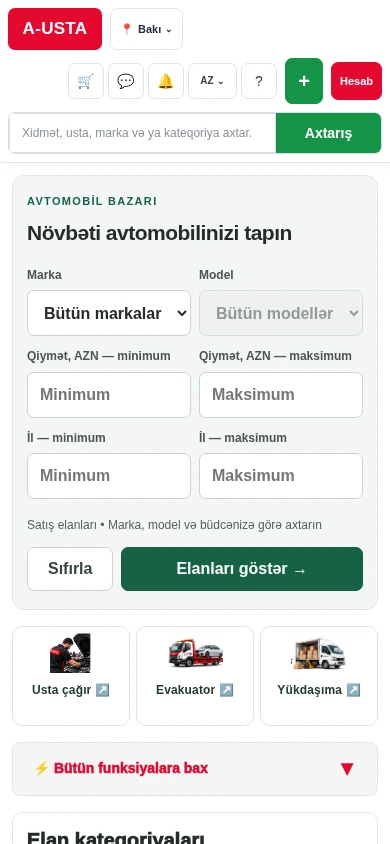
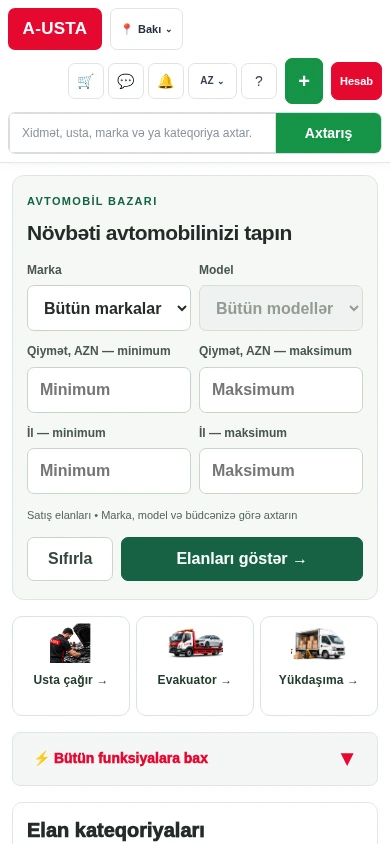
Polish V3.4.1 mobile promotion, footer and information pages

diff --git a/assets/homepage/homepage.css b/assets/homepage/homepage.css
@@ -30,3 +30,34 @@
 #home #austaV107ListingCategories .austa-v107-category-name{min-height:28px!important}
 @media(max-width:650px){#home #austaV107ListingCategories .austa-v107-category{padding:60px 4px 4px!important;background-size:100% 60px!important}#home #austaTopUrgentV24 > button::after{left:4px!important;right:4px!important;top:55px!important}}
 #austaProfessionalFooter .v34-footer-intro a,#austaProfessionalFooter .v34-footer-intro a:hover{color:#176244!important}
+/* V3.4.1 owner visual polish: original device/availability artwork, no store-logo imitation. */
+#austaMobilePromotion{background:radial-gradient(ellipse at 63% 55%,#dcebe2 0,transparent 42%),linear-gradient(115deg,#f5f7f5,#eef3f0);margin-top:30px}
+#austaMobilePromotion .v34-mobile-inner{grid-template-columns:minmax(0,1.18fr) minmax(260px,.8fr) minmax(200px,.6fr);min-height:650px;gap:30px;padding:48px 28px;align-items:center}
+#austaMobilePromotion .v34-mobile-copy{padding:0;min-width:0}#austaMobilePromotion .v34-kicker{display:flex;align-items:center;gap:8px;font-size:10px!important;letter-spacing:.1em}.v341-live-dot{width:7px;height:7px;background:#176244;border-radius:50%;box-shadow:0 0 0 4px #17624412;flex:none}
+#austaMobilePromotion .v34-mobile-copy h2{font-size:clamp(31px,2.6vw,40px);line-height:1.14;letter-spacing:-1.2px;max-width:560px;margin:20px 0}#austaMobilePromotion .v34-mobile-copy>p{font-size:16px;line-height:1.65;max-width:445px}
+.v341-web-action{display:inline-flex;justify-content:space-between;gap:35px;align-items:center;background:#176244;color:#fff!important;font-size:15px;font-weight:650;min-height:48px;padding:12px 20px;border-radius:8px;margin-top:9px;box-shadow:0 5px 15px #17624415}.v341-web-action:hover{background:#104e35}.v341-web-action span{font-size:21px}
+#austaMobilePromotion .v341-store-heading{font-size:11px!important;text-transform:uppercase;letter-spacing:.07em;font-weight:650;color:#52645a;margin:30px 0 12px}.v34-stores{flex-wrap:nowrap;gap:8px;margin-top:0}
+#austaMobilePromotion .v34-store{flex:1;min-width:0;max-width:180px;min-height:98px;padding:14px 10px;border:1px solid #d4dfd8;border-radius:10px;box-shadow:0 2px 2px #17302203;background:#ffffffd9;display:flex;flex-direction:row;gap:9px;align-items:flex-start;justify-content:flex-start;position:relative}
+.v341-store-device{flex:0 0 30px;width:30px;height:36px;display:grid;place-items:center;background:#e6f0e9;border-radius:7px;color:#176244}.v341-store-upcoming:nth-child(2) .v341-store-device{background:#edf0ee;color:#3a4e43}.v341-store-upcoming:nth-child(3) .v341-store-device{background:#faeeed;color:#b32b23}.v341-store-copy{display:flex;flex-direction:column;min-width:0}#austaMobilePromotion .v341-store-copy>span{font-size:13px;font-weight:700;line-height:1.3;white-space:nowrap}#austaMobilePromotion .v341-store-platform{font-size:9px;margin:0 0 4px;color:#596b60;white-space:nowrap}#austaMobilePromotion .v341-store-state{font-size:10px;margin-top:8px;font-weight:500;color:#657369}#austaMobilePromotion .v34-upcoming{font-size:11px!important;line-height:1.55;margin-top:12px;color:#5b6d60;max-width:430px}
+#austaMobilePromotion .v34-phone{position:relative;width:282px;height:auto;align-self:center;margin:0 auto;padding:9px;transform:rotate(-5deg);border:1px solid #6c7970;border-radius:43px;background:linear-gradient(110deg,#a0aaa3,#252d28 8%,#79837c 13%,#151c17 21%,#444f47 77%,#111a14 93%,#8b968e);box-shadow:0 28px 48px #17302338,0 3px 5px #17302325,inset 0 0 0 2px #acb5ae;overflow:visible}
+#austaMobilePromotion .v34-phone::after{content:'';position:absolute;right:-3px;top:140px;width:3px;height:45px;border-radius:0 2px 2px 0;background:#38483d}#austaMobilePromotion .v34-phone::before{content:'';position:absolute;left:-3px;top:100px;width:3px;height:60px;border-radius:2px 0 0 2px;background:#4b5d50}
+#austaMobilePromotion .v34-phone-screen{height:auto;overflow:hidden;border-radius:34px;background:#fff;border:2px solid #0b110d;position:relative}.v341-phone-status{height:25px;padding:6px 14px 0;display:flex;justify-content:space-between;font-size:9px;font-weight:700;color:#1e2a22;background:#fff;line-height:12px}
+#austaMobilePromotion .v34-phone-screen img{display:block;width:100%;height:auto;aspect-ratio:390/844}#austaMobilePromotion .v34-phone-camera{height:12px;width:62px;top:18px;left:calc(50% - 31px);border-radius:12px;background:#111913}
+#austaMobilePromotion .v34-qr{padding:0;display:block;text-align:center;min-width:0}#austaMobilePromotion .v34-qr>a:first-child{padding:8px;border-radius:16px;border:1px solid #d6e1d9;box-shadow:0 8px 24px #244d3410;background:#fff;display:inline-block;line-height:0}
+#austaMobilePromotion .v34-qr img{width:192px;height:192px;image-rendering:pixelated}.v341-scan-label{display:block;font-size:9px;color:#61766a;letter-spacing:.09em;font-weight:650;margin:22px 0 10px}#austaMobilePromotion .v34-qr h3{font-size:23px;line-height:1.25;letter-spacing:-.4px;margin:0 0 12px}#austaMobilePromotion .v34-qr p{font-size:13px;line-height:1.6;margin:0 0 13px}.v34-mobile-link{font-size:13px}
+#austaProfessionalFooter{padding-top:35px!important;background:#fafbfa!important}#austaProfessionalFooter .v34-footer-intro{padding-bottom:24px;margin-bottom:28px}.v34-footer-intro p{letter-spacing:-.15px}.v34-footer-nav{gap:28px}.v34-footer-group h2{font-size:13px!important;letter-spacing:.01em;margin-bottom:12px}#austaProfessionalFooter .v34-footer-group a{font-size:13px!important;line-height:1.4!important;padding:9px 0;min-height:36px;color:#4d6053!important;transition:color .15s}#austaProfessionalFooter .v34-footer-group a:hover{color:#176244!important;text-decoration:underline;text-underline-offset:4px}
+#austaProfessionalFooter #austaV169DBrandCatalog{margin:28px 0 0!important;width:100%!important;max-width:none!important;background:#fafbfa;padding:25px 0 0!important;border:0!important;border-top:1px solid #dfe6e1!important;border-radius:0}
+.v341-directory-head{display:flex;justify-content:space-between;align-items:center;gap:24px;margin-bottom:18px}.v341-directory-head h2{margin-bottom:5px!important;font-size:19px!important}.v341-directory-caption{font-size:12px!important;color:#64766a!important;margin:0!important}.v34-brand-search{font-size:12px;white-space:nowrap}.v34-brand-search input{width:230px;max-width:100%;height:42px;background:#fff;border-color:#cfd9d2}
+#austaV169DBrandCatalog .austa-v169d-grid{gap:0 24px!important;margin:16px 0 0!important}#austaV169DBrandCatalog .austa-v169d-brand{font-size:12px!important;min-height:32px;padding:5px 3px;line-height:1.45;transition:background .15s;border-radius:4px;color:#4c5f52}#austaV169DBrandCatalog .austa-v169d-brand b{font-size:11px;color:#6c7d70}#austaV169DBrandCatalog .austa-v169d-brand:hover{background:#eaf1ec;color:#176244}.v34-footer-bottom{margin-top:24px;padding:18px 0}.v34-footer-bottom p{font-size:11px!important}
+#home .v34-search{padding:22px 24px;border-color:#dfe6e1;background:#f5f7f5}.v34-search-heading{margin-bottom:18px}.v34-search-actions{margin-top:14px}.v34-search-heading h1{font-weight:700}#home #austaTopUrgentV24 button{transition:border-color .15s,box-shadow .15s}#home #austaTopUrgentV24 button:hover{border-color:#9db8a8!important;box-shadow:0 4px 12px #1762440c!important}
+/* Text arrows avoid platform emoji glyphs in the new presentation. */
+#home #austaTopUrgentV24 button::after{content:'Evakuator  →\A Yol yardımı və daşıma'!important}#home #austaTopUrgentV24 #v34MechanicEntry::after{content:'Usta çağır  →\A Xidmət növünü seçin'!important}#home #austaTopUrgentV24 [data-v31-cargo]::after{content:'Yükdaşıma  →\A Daşıma sifarişi yaradın'!important}
+@media(max-width:1399px) and (min-width:1101px){#austaMobilePromotion .v34-mobile-inner{gap:20px;grid-template-columns:minmax(0,1.2fr) 270px 205px}#austaMobilePromotion .v34-phone{width:265px}#austaMobilePromotion .v34-mobile-copy h2{font-size:35px}.v341-store-device{display:none}#austaV169DBrandCatalog .austa-v169d-grid{grid-template-columns:repeat(6,minmax(0,1fr))!important}}
+@media(max-width:1100px){#austaMobilePromotion .v34-mobile-inner{grid-template-columns:minmax(0,1.2fr) minmax(240px,.8fr);gap:24px 30px;padding:40px 28px;min-height:0}#austaMobilePromotion .v34-mobile-copy{grid-column:1;grid-row:1}#austaMobilePromotion .v34-mobile-copy h2{font-size:31px}#austaMobilePromotion .v34-phone{grid-column:2;grid-row:1 / 3;width:250px;margin:0 auto}#austaMobilePromotion .v34-qr{grid-column:1;grid-row:2;display:grid;grid-template-columns:146px 1fr;column-gap:20px;text-align:left;align-items:start}#austaMobilePromotion .v34-qr>a:first-child{grid-column:1;grid-row:1/5;padding:5px;border-radius:12px;justify-self:start}#austaMobilePromotion .v34-qr img{width:132px;height:132px}.v341-scan-label{grid-column:2;margin:3px 0 7px}#austaMobilePromotion .v34-qr h3{grid-column:2;font-size:20px;margin:0 0 8px}#austaMobilePromotion .v34-qr p{grid-column:2;font-size:12px;margin:0 0 5px}#austaMobilePromotion .v34-mobile-link{grid-column:2}.v341-store-device{display:none}.v34-stores{gap:6px}#austaMobilePromotion .v34-store{min-height:85px;padding:12px 8px}.v341-directory-head{align-items:flex-start}.v34-brand-search{display:block}.v34-brand-search input{display:block;margin-top:6px;width:210px}#austaV169DBrandCatalog .austa-v169d-grid{grid-template-columns:repeat(4,minmax(0,1fr))!important}}
+@media(max-width:650px){#austaMobilePromotion .v34-mobile-inner{grid-template-columns:minmax(0,1fr) 140px;gap:30px 14px;padding:30px 18px 32px}#austaMobilePromotion .v34-mobile-copy{grid-column:1/-1;grid-row:1}#austaMobilePromotion .v34-mobile-copy h2{font-size:29px;letter-spacing:-.9px;line-height:1.17;margin:17px 0}#austaMobilePromotion .v34-mobile-copy>p{font-size:14px;line-height:1.65;max-width:none}#austaMobilePromotion .v34-kicker{font-size:9px!important}.v341-web-action{min-height:46px;margin-top:5px}.v341-store-heading{margin-top:24px!important}#austaMobilePromotion .v34-store{min-height:112px;padding:12px 8px;display:flex;flex-direction:column;gap:8px;border-radius:9px}.v341-store-device{display:grid;width:27px;height:30px;flex:auto}.v341-store-device svg{width:17px;height:23px}#austaMobilePromotion .v341-store-copy>span{font-size:12px}#austaMobilePromotion .v341-store-platform{font-size:8px}#austaMobilePromotion .v341-store-state{font-size:9px;margin-top:7px}#austaMobilePromotion .v34-upcoming{font-size:11px!important}#austaMobilePromotion .v34-phone{grid-column:1;grid-row:2;width:min(100%,194px);transform:rotate(-3deg);padding:6px;margin:0 auto;border-radius:30px;align-self:center}#austaMobilePromotion .v34-phone-screen{border-radius:23px}.v341-phone-status{height:18px;padding:4px 9px 0;font-size:6px;line-height:8px}#austaMobilePromotion .v34-phone-camera{top:12px;width:43px;left:calc(50% - 21.5px);height:9px}#austaMobilePromotion .v34-phone::before{top:66px;height:38px}#austaMobilePromotion .v34-phone::after{top:100px;height:30px}#austaMobilePromotion .v34-qr{grid-column:2;grid-row:2;display:block;text-align:center;padding:0;align-self:center}#austaMobilePromotion .v34-qr img{width:126px;height:126px}#austaMobilePromotion .v34-qr>a:first-child{padding:5px;max-width:100%}.v341-scan-label{font-size:8px;margin:17px 0 8px}#austaMobilePromotion .v34-qr h3{font-size:18px}#austaMobilePromotion .v34-qr p{font-size:11px;line-height:1.6;margin-top:10px}#austaMobilePromotion .v34-mobile-link{font-size:12px}#austaProfessionalFooter{padding:26px 18px 0!important}.v34-footer-intro{gap:10px;margin-bottom:24px!important;padding-bottom:22px!important}.v34-footer-intro p{font-size:12px!important}.v34-footer-nav{gap:24px 15px}#austaProfessionalFooter .v34-footer-group a{font-size:12px!important;min-height:44px;padding:12px 0}#austaProfessionalFooter .v34-footer-group h2{font-size:13px!important}.v341-directory-head{display:block}.v34-brand-search{margin-top:16px}.v34-brand-search input{width:100%}#austaV169DBrandCatalog .austa-v169d-grid{grid-template-columns:repeat(2,minmax(0,1fr))!important;gap:0 14px!important}#austaV169DBrandCatalog .austa-v169d-brand{min-height:44px;font-size:12px!important}.v34-footer-bottom{margin-top:16px}#home .v34-search{padding:18px 14px}.v34-search-heading{margin-bottom:15px}.v34-search-actions p{font-size:11px}#home #austaTopUrgentV24 button::after{content:'Evakuator →'!important}#home #austaTopUrgentV24 #v34MechanicEntry::after{content:'Usta çağır →'!important}#home #austaTopUrgentV24 [data-v31-cargo]::after{content:'Yükdaşıma →'!important}}
+@media(prefers-reduced-motion:reduce){#home #austaTopUrgentV24 button,#austaProfessionalFooter a,#austaV169DBrandCatalog button{transition:none!important}}
+@media(min-width:1101px) and (max-width:1399px){#austaMobilePromotion .v34-mobile-inner{grid-template-columns:minmax(0,1.18fr) minmax(250px,.8fr) minmax(200px,.6fr);gap:24px}}
+@media(min-width:651px) and (max-width:1399px){.v341-store-device{display:grid;flex-basis:26px;width:26px;height:34px}.v341-store-device svg{width:20px;height:26px}}
+@media(max-width:650px){#austaMobilePromotion .v341-store-platform{font-size:9px}#austaMobilePromotion .v341-store-state{font-size:10px}}
+#austaProfessionalFooter .v34-footer-group h2{font-size:14px!important}#austaProfessionalFooter .v34-footer-group a{font-size:14px!important}#austaV169DBrandCatalog .austa-v169d-brand{font-size:13px!important}#austaV169DBrandCatalog .austa-v169d-brand b{font-size:12px}#austaMobilePromotion .v341-store-state{font-size:11px}
+@media(max-width:650px){#austaProfessionalFooter .v34-footer-group h2,#austaProfessionalFooter .v34-footer-group a,#austaV169DBrandCatalog .austa-v169d-brand{font-size:13px!important}#austaMobilePromotion .v341-store-state{font-size:10px}}

diff --git a/assets/homepage/homepage.js b/assets/homepage/homepage.js
@@ -9,7 +9,7 @@ function category(key){window.AUSTA_V151_MARKETPLACE?.openCategory(key);}
 function search(){
  const home=document.getElementById('home');if(!home||document.getElementById('austaHomeSearch'))return;
  const box=el('section','v34-search');box.id='austaHomeSearch';box.setAttribute('aria-labelledby','v34SearchTitle');
- box.innerHTML='<div class="v34-search-heading"><div><p class="v34-kicker">AVTOMOBİL BAZARI</p><h1 id="v34SearchTitle">Növbəti avtomobilinizi tapın</h1></div><a href="'+infoURL('services')+'">A-USTA xidmətləri ↗</a></div><form><div class="v34-search-grid"><label>Marka<select name="brand"><option value="">Bütün markalar</option></select></label><label>Model<select name="model" disabled><option value="">Bütün modellər</option></select></label><label>Qiymət, AZN — minimum<input type="number" name="price_min" min="0" step="any" placeholder="Minimum"></label><label>Qiymət, AZN — maksimum<input type="number" name="price_max" min="0" step="any" placeholder="Maksimum"></label><label>İl — minimum<input type="number" name="year_min" min="0" step="1" placeholder="Minimum"></label><label>İl — maksimum<input type="number" name="year_max" min="0" step="1" placeholder="Maksimum"></label></div><div class="v34-search-actions"><p>Satış elanları • Marka, model və büdcənizə görə axtarın</p><button type="reset">Sıfırla</button><button type="submit">Elanları göstər →</button></div><p class="v34-search-error" role="alert" hidden></p></form>';
+ box.innerHTML='<div class="v34-search-heading"><div><p class="v34-kicker">AVTOMOBİL BAZARI</p><h1 id="v34SearchTitle">Növbəti avtomobilinizi tapın</h1></div><a href="'+infoURL('services')+'">A-USTA xidmətləri →</a></div><form><div class="v34-search-grid"><label>Marka<select name="brand"><option value="">Bütün markalar</option></select></label><label>Model<select name="model" disabled><option value="">Bütün modellər</option></select></label><label>Qiymət, AZN — minimum<input type="number" name="price_min" min="0" step="any" placeholder="Minimum"></label><label>Qiymət, AZN — maksimum<input type="number" name="price_max" min="0" step="any" placeholder="Maksimum"></label><label>İl — minimum<input type="number" name="year_min" min="0" step="1" placeholder="Minimum"></label><label>İl — maksimum<input type="number" name="year_max" min="0" step="1" placeholder="Maksimum"></label></div><div class="v34-search-actions"><p>Satış elanları • Marka, model və büdcənizə görə axtarın</p><button type="reset">Sıfırla</button><button type="submit">Elanları göstər →</button></div><p class="v34-search-error" role="alert" hidden></p></form>';
  const form=box.querySelector('form'),brand=form.elements.brand,model=form.elements.model;
  for(const name of window.AUSTA_VEHICLE_CATALOG?.brands||[]){const option=el('option','',name);option.value=name;brand.append(option);}
  function models(){model.replaceChildren(new Option('Bütün modellər',''));model.disabled=!brand.value;for(const name of window.AUSTA_VEHICLE_CATALOG?.models[brand.value]||[])model.add(new Option(name,name));}
@@ -25,19 +25,19 @@ function service(){
 }
 function promotion(footer){
  const config=window.AUSTA_MOBILE_LINKS,section=el('section','v34-mobile');section.id='austaMobilePromotion';section.setAttribute('aria-labelledby','v34MobileTitle');
- section.innerHTML='<div class="v34-mobile-inner"><div class="v34-mobile-copy"><p class="v34-kicker">A-USTA HƏR ZAMAN YANINIZDA</p><h2 id="v34MobileTitle">A-USTA — Bütün avtomobil xidmətləri bir platformada</h2><p>Elanlar, avtomobilləriniz və servis tarixçəniz.<br>Mobil brauzerinizdən rahat istifadə edin.</p><div class="v34-stores" aria-label="Gələcək mobil tətbiqlər"></div><p class="v34-upcoming">Mobil tətbiqlər hələ yayımlanmayıb. Hazırda mobil saytdan istifadə edə bilərsiniz.</p></div><div class="v34-phone" role="img" aria-label="A-USTA mobil saytının real ana səhifəsi"><div class="v34-phone-screen"><img src="'+asset('mobile-preview.webp')+'" width="390" height="844" alt="A-USTA mobil saytı: axtarış, xidmətlər və kateqoriyalar" loading="lazy"></div><span class="v34-phone-camera" aria-hidden="true"></span></div><div class="v34-qr"><a href="'+config.website+'"><img src="'+asset('website-qr.png')+'" width="208" height="208" alt="A-USTA saytını açan QR kod" loading="lazy"></a><h3>Telefonunuzda açın</h3><p>Kameranı QR koda yönəldin.<br>Tətbiq yükləmək lazım deyil.</p><a class="v34-mobile-link" href="'+config.website+'">Mobil saytı aç ↗</a></div></div>';
- const stores=section.querySelector('.v34-stores');for(const item of config.stores){let safe=false;try{const url=new URL(item.url);safe=url.protocol==='https:'&&url.hostname===item.host&&!!url.pathname.slice(1);}catch{}const ready=item.published===true&&item.artworkApproved===true&&safe&&/^assets\/homepage\/[a-z0-9-]+\.(svg|png)$/.test(item.badge);const badge=el(ready?'a':'div','v34-store');if(ready){badge.href=item.url;const image=el('img');image.src=new URL('../../'+item.badge,script.src).href;image.alt=item.name;badge.append(image);}else{badge.append(el('span','',item.name),el('small','','Planlaşdırılır'));}stores.append(badge);}
+ section.innerHTML='<div class="v34-mobile-inner"><div class="v34-mobile-copy"><p class="v34-kicker"><span class="v341-live-dot" aria-hidden="true"></span> MOBİL SAYT · İNDİ ƏLÇATANDIR</p><h2 id="v34MobileTitle">A-USTA — Bütün avtomobil xidmətləri bir platformada</h2><p>Avtomobil dünyası cibinizdə. Elanlara baxın, avtomobillərinizi və servis tarixçənizi telefonunuzdan idarə edin.</p><a class="v341-web-action" href="'+config.website+'">Mobil saytı aç <span aria-hidden="true">→</span></a><p class="v341-store-heading">Mobil tətbiqlər · Növbəti mərhələ</p><div class="v34-stores" aria-label="Gələcək mobil tətbiqlər"></div><p class="v34-upcoming">Mobil tətbiqlər hələ yayımlanmayıb. Hazırda mobil saytdan istifadə edə bilərsiniz.</p></div><div class="v34-phone" role="img" aria-label="A-USTA mobil saytının real ana səhifəsi"><div class="v34-phone-screen"><div class="v341-phone-status" aria-hidden="true"><span>9:41</span><span>● ▰</span></div><img src="'+asset('mobile-preview.webp')+'" width="390" height="844" alt="A-USTA mobil saytı: axtarış, xidmətlər və kateqoriyalar" loading="lazy"></div><span class="v34-phone-camera" aria-hidden="true"></span></div><div class="v34-qr"><a href="'+config.website+'"><img src="'+asset('website-qr.png')+'" width="208" height="208" alt="A-USTA saytını açan QR kod" loading="lazy"></a><span class="v341-scan-label">YÜKLƏMƏSİZ İSTİFADƏ</span><h3>Skan edin.<br>Yola davam edin.</h3><p>Kameranı QR koda yönəldin.<br>Tətbiq yükləmək lazım deyil.</p><a class="v34-mobile-link" href="'+config.website+'">Mobil saytı aç →</a></div></div>';
+ const stores=section.querySelector('.v34-stores');for(const item of config.stores){let safe=false;try{const url=new URL(item.url);safe=url.protocol==='https:'&&url.hostname===item.host&&!!url.pathname.slice(1);}catch{}const ready=item.published===true&&item.artworkApproved===true&&safe&&/^assets\/homepage\/[a-z0-9-]+\.(svg|png)$/.test(item.badge);const badge=el(ready?'a':'div','v34-store');if(ready){badge.href=item.url;const image=el('img');image.src=new URL('../../'+item.badge,script.src).href;image.alt=item.name;badge.append(image);}else{badge.classList.add('v341-store-upcoming');const icon=el('span','v341-store-device');icon.setAttribute('aria-hidden','true');icon.innerHTML='<svg width="22" height="28" viewBox="0 0 22 28" fill="none"><rect x="3" y="1" width="16" height="26" rx="4" stroke="currentColor" stroke-width="1.5"/><path d="M8 4h6M9 24h4" stroke="currentColor" stroke-width="1.5" stroke-linecap="round"/></svg>';const copy=el('span','v341-store-copy');copy.append(el('small','v341-store-platform',item.platform||'Mobil tətbiq'),el('span','',item.name),el('small','v341-store-state','Planlaşdırılır'));badge.append(icon,copy);}stores.append(badge);}
  footer.before(section);
 }
 function footer(){
  const root=document.querySelector('footer.footer');if(!root)return;root.id='austaProfessionalFooter';
  const groups=[['A-USTA',[['Haqqımızda','about'],['Əlaqə','contact'],['Xidmətlərimiz','services'],['Reklam yerləşdirmə','advertising']]],['Hüquqi məlumatlar',[['İstifadəçi razılaşması','agreement'],['Məxfilik siyasəti','privacy'],['Qaydalar','rules'],['Elan yerləşdirmə qaydaları','listing-rules']]],['Dəstək',[['Yardım mərkəzi','help'],['Tez-tez verilən suallar','faq'],['Texniki dəstək','technical-support'],['Şikayət və müraciətlər','complaints']]],['Kataloq',[['Avtomobil markaları','brands'],['Avtomobil kateqoriyaları','categories'],['Ehtiyat hissələri','parts'],['Avtoservislər','service']]]];
- root.replaceChildren();const inner=el('div','v34-footer-inner'),intro=el('div','v34-footer-intro');intro.append(el('strong','v34-footer-wordmark','A-USTA'),el('p','','Avtomobil dünyası. Bir ünvanda.'),link('Platformanı tanıyın ↗','about'));inner.append(intro);
+ root.replaceChildren();const inner=el('div','v34-footer-inner'),intro=el('div','v34-footer-intro');intro.append(el('strong','v34-footer-wordmark','A-USTA'),el('p','','Avtomobil dünyası. Bir ünvanda.'),link('Platformanı tanıyın →','about'));inner.append(intro);
  const nav=el('nav','v34-footer-nav');nav.setAttribute('aria-label','Sayt haqqında və dəstək');
  for(const [title,items]of groups){const group=el('div','v34-footer-group');group.append(el('h2','',title));for(const [text,key]of items){const a=link(text,key);if(['brands','categories','parts','service'].includes(key)){if(key==='brands')a.href='#austaV169DBrandCatalog';else if(key==='categories')a.href='#austaV107ListingCategories';else a.href=infoURL(key);a.addEventListener('click',e=>{if(key==='brands'||key==='categories'){document.getElementById(key==='brands'?'austaV169DBrandCatalog':'austaV107ListingCategories')?.scrollIntoView({behavior:'smooth'});}else{e.preventDefault();category(key);}});}group.append(a);}nav.append(group);}
  inner.append(nav);const bottom=el('div','v34-footer-bottom');bottom.append(el('p','','© '+new Date().getFullYear()+' A-USTA'),el('p','','Azərbaycan dili · Avtomobil xidmətləri və elanlar'));inner.append(bottom);root.append(inner);promotion(root);
 }
-function enhanceDirectory(){const root=document.getElementById('austaV169DBrandCatalog');if(!root||root.dataset.v34)return;root.dataset.v34='1';document.querySelector('.v34-footer-bottom')?.before(root);const label=el('label','v34-brand-search','Markanı tapın');const input=el('input');input.type='search';input.placeholder='Marka adı';input.setAttribute('aria-label','Avtomobil markalarında axtarış');label.append(input);const status=el('p','v34-brand-result');status.setAttribute('role','status');root.querySelector('h2').after(label,status);
+function enhanceDirectory(){const root=document.getElementById('austaV169DBrandCatalog');if(!root||root.dataset.v34)return;root.dataset.v34='1';document.querySelector('.v34-footer-bottom')?.before(root);const label=el('label','v34-brand-search','Markanı tapın');const input=el('input');input.type='search';input.placeholder='Marka adı';input.setAttribute('aria-label','Avtomobil markalarında axtarış');label.append(input);const status=el('p','v34-brand-result');status.setAttribute('role','status');const top=el('div','v341-directory-head');const title=el('div');const heading=root.querySelector('h2');heading.before(top);title.append(heading,el('p','v341-directory-caption','A-USTA kataloqu · Marka üzrə elanlara keçin'));top.append(title,label);(root.querySelector('[role="status"]')||top).after(status);
  const filter=()=>{const q=input.value.trim().toLocaleLowerCase('az');let total=0;for(const b of root.querySelectorAll('.austa-v169d-brand')){b.hidden=!b.querySelector('span').textContent.toLocaleLowerCase('az').includes(q);if(!b.hidden)total++;}status.textContent=total?'': 'Bu adda marka tapılmadı.';};input.addEventListener('input',filter);new MutationObserver(filter).observe(root.querySelector('.austa-v169d-grid'),{childList:true});}
 function mount(){if(document.documentElement.dataset.homepageV34)return;document.documentElement.dataset.homepageV34='1';search();service();footer();enhanceDirectory();}
 if(document.readyState==='loading')document.addEventListener('DOMContentLoaded',mount,{once:true});else mount();

diff --git a/info/index.html b/info/index.html
@@ -1,7 +1,9 @@
 <!doctype html>
 <html lang="az"><head><meta charset="utf-8"><meta name="viewport" content="width=device-width,initial-scale=1"><title>A-USTA — Məlumat və yardım</title><meta name="description" content="A-USTA platforması, xidmətlər, təhlükəsiz istifadə və yardım haqqında məlumat."><style>
-*{box-sizing:border-box}html{scroll-behavior:smooth;scroll-padding-top:25px}body{margin:0;font:16px/1.7 system-ui,Arial,sans-serif;color:#28372e;background:#f5f7f5}a{color:#176244;text-underline-offset:4px}header{background:#fff;border-bottom:1px solid #dfe7e1;padding:22px max(20px,calc((100% - 1100px)/2));display:flex;justify-content:space-between;align-items:center;gap:20px}header>a:first-child{font-size:26px;font-weight:800;text-decoration:none}main{max-width:1100px;margin:40px auto;padding:0 20px;display:grid;grid-template-columns:230px 1fr;gap:40px}nav{align-self:start;position:sticky;top:20px}nav a{display:block;padding:7px 0;font-size:14px;text-decoration:none}h1{font-size:34px;line-height:1.2;letter-spacing:-1px}h2{font-size:24px;margin:0 0 16px}h3{font-size:17px}article{background:#fff;border:1px solid #dfe7e1;border-radius:12px;padding:30px;margin:0 0 22px;scroll-margin-top:22px}article:target{border-color:#176244;box-shadow:0 0 0 2px #17624418}.intro{color:#5c6c62}.notice{border-left:3px solid #176244;background:#f2f6f3;padding:14px 18px;font-size:14px}li{margin:10px 0}details{border-top:1px solid #e0e7e2;padding:15px 0}summary{font-weight:600;cursor:pointer;min-height:30px}footer{max-width:1100px;margin:auto;padding:20px;color:#5b6f61;font-size:14px}:focus-visible{outline:3px solid #176244;outline-offset:3px}@media(max-width:700px){main{display:block;margin-top:25px}nav{position:static;display:flex;gap:8px 20px;flex-wrap:wrap;margin-bottom:25px}article{padding:22px}h1{font-size:29px}header{padding:16px 20px}header>a:last-child{font-size:14px}}
-</style></head><body><header><a href="../">A-USTA</a><a href="../">Ana səhifəyə qayıt ↗</a></header><main><nav aria-label="Məlumat bölmələri"><a href="#about">Haqqımızda</a><a href="#contact">Əlaqə</a><a href="#services">Xidmətlərimiz</a><a href="#advertising">Reklam yerləşdirmə</a><a href="#agreement">İstifadəçi razılaşması</a><a href="#privacy">Məxfilik siyasəti</a><a href="#rules">Qaydalar</a><a href="#listing-rules">Elan yerləşdirmə qaydaları</a><a href="#help">Yardım mərkəzi</a><a href="#faq">Tez-tez verilən suallar</a><a href="#technical-support">Texniki dəstək</a><a href="#complaints">Şikayət və müraciətlər</a><a href="#brands">Markalar</a><a href="#categories">Kateqoriyalar</a><a href="#parts">Ehtiyat hissələri</a><a href="#service">Avtoservislər</a></nav><div><h1>Məlumat və yardım</h1><p class="intro">A-USTA-dan daha rahat və təhlükəsiz istifadə etmək üçün.</p>
+*{box-sizing:border-box}html{scroll-behavior:smooth;scroll-padding-top:28px}body{margin:0;font:15px/1.8 system-ui,Arial,sans-serif;color:#304237;background:#f4f6f4}a{color:#176244;text-underline-offset:4px}header{background:#fff;border-bottom:1px solid #dde5df;padding:20px max(24px,calc((100% - 1150px)/2));display:flex;justify-content:space-between;align-items:center;gap:20px}header>a:first-child{font-size:27px;letter-spacing:-1px;font-weight:800;text-decoration:none}header>a:last-child{font-size:13px;text-decoration:none;padding:8px 14px;border:1px solid #d6e1d9;border-radius:7px}main{max-width:1198px;margin:42px auto 0;padding:0 24px;display:grid;grid-template-columns:240px minmax(0,1fr);gap:40px}.info-nav{align-self:start;position:sticky;top:24px;border:1px solid #dde6df;border-radius:12px;background:#fff;padding:16px 20px;max-height:calc(100vh - 48px);overflow:auto}.info-nav>summary{font-size:11px;text-transform:uppercase;letter-spacing:.1em;font-weight:700;color:#697c6f;list-style:none;padding:0 0 10px;cursor:pointer}.info-nav>summary::-webkit-details-marker{display:none}nav a{display:block;padding:7px 0;color:#53685a;font-size:12px;text-decoration:none;line-height:1.5;min-height:33px}nav a:hover,nav a:focus-visible{color:#176244;text-decoration:underline}nav a:nth-child(4n){border-bottom:1px solid #e5ebe7;padding-bottom:14px;margin-bottom:8px}nav a:last-child{border:0;margin-bottom:0;padding-bottom:0}main>div{min-width:0}h1{font-size:38px;line-height:1.15;letter-spacing:-1.3px;color:#243b2b;margin:10px 0 14px}h2{font-size:23px;line-height:1.3;letter-spacing:-.35px;margin:0 0 18px;color:#243b2b}h3{font-size:16px;margin:22px 0 8px;color:#304a38}.intro{color:#607668;margin:0 0 20px;max-width:570px}.info-eyebrow{font-size:10px;font-weight:750;letter-spacing:.13em;color:#176244;margin:0}.info-quick-links{display:flex;gap:8px;flex-wrap:wrap;margin:0 0 30px}.info-quick-links a{display:inline-block;text-decoration:none;border:1px solid #d5e0d8;border-radius:20px;background:#fff;padding:7px 14px;color:#3f5b48;font-size:12px}article{background:#fff;border:1px solid #dfe7e1;border-radius:12px;padding:30px 34px;margin:0 0 20px;scroll-margin-top:24px;box-shadow:0 3px 7px #17332302}article:target{border-color:#a3bfae;box-shadow:0 0 0 3px #17624408}article p{margin:12px 0;font-size:14px;line-height:1.85}article p:last-child{margin-bottom:0}.notice{border-left:3px solid #799b87;background:#f2f6f3;padding:15px 18px;font-size:12px!important;line-height:1.8!important;color:#476351;margin:18px 0!important;border-radius:0 7px 7px 0}li{margin:9px 0;font-size:14px}ul,ol{padding-left:22px}details:not(.info-nav){border-top:1px solid #e0e7e2;padding:0}details:not(.info-nav)>summary{font-weight:600;cursor:pointer;min-height:54px;display:list-item;padding:14px 3px;font-size:14px;line-height:1.6}details:not(.info-nav)>p{margin:0 0 18px;color:#5e7364}footer{max-width:1198px;margin:20px auto 0;padding:24px;color:#617668;font-size:12px;border-top:1px solid #dfe7e1}:focus-visible{outline:3px solid #176244;outline-offset:3px}
+@media(max-width:800px){header{padding:16px 18px}main{display:block;margin-top:22px;padding:0 16px}.info-nav{position:static;max-height:300px;margin-bottom:25px;padding:13px 16px}.info-nav>summary{font-size:12px;text-transform:none;letter-spacing:0;color:#3e5c47;padding:0}.info-nav[open]>summary{padding-bottom:12px}.info-nav>nav{display:grid;grid-template-columns:1fr 1fr;gap:0 16px}nav a{font-size:12px;padding:10px 0;min-height:44px}nav a:nth-child(4n){margin:0;padding-bottom:10px;border:0}h1{font-size:30px;letter-spacing:-.8px;margin-top:10px}h2{font-size:21px}article{padding:23px 20px;margin-bottom:16px;scroll-margin-top:16px}article p,li{font-size:14px}.info-quick-links{gap:6px;margin-bottom:22px}.info-quick-links a{font-size:11px;padding:7px 12px}.notice{padding:12px 14px;font-size:12px!important}.intro{font-size:14px}footer{padding:22px 18px}.info-nav>nav a:first-child{padding-top:5px}}
+@media(prefers-reduced-motion:reduce){html{scroll-behavior:auto}}
+</style></head><body><header><a href="../">A-USTA</a><a href="../">Ana səhifəyə qayıt ↗</a></header><main><details class="info-nav" open><summary>Bölmələrə keçid <span aria-hidden="true">⌄</span></summary><nav aria-label="Məlumat bölmələri"><a href="#about">Haqqımızda</a><a href="#contact">Əlaqə</a><a href="#services">Xidmətlərimiz</a><a href="#advertising">Reklam yerləşdirmə</a><a href="#agreement">İstifadəçi razılaşması</a><a href="#privacy">Məxfilik siyasəti</a><a href="#rules">Qaydalar</a><a href="#listing-rules">Elan yerləşdirmə qaydaları</a><a href="#help">Yardım mərkəzi</a><a href="#faq">Tez-tez verilən suallar</a><a href="#technical-support">Texniki dəstək</a><a href="#complaints">Şikayət və müraciətlər</a><a href="#brands">Markalar</a><a href="#categories">Kateqoriyalar</a><a href="#parts">Ehtiyat hissələri</a><a href="#service">Avtoservislər</a></nav></details><div><p class="info-eyebrow">A-USTA BƏLƏDÇİSİ</p><h1>Məlumat və yardım</h1><p class="intro">Platformanı tanıyın, suallarınıza cavab tapın və avtomobilinizlə bağlı işləri daha rahat idarə edin.</p><div class="info-quick-links"><a href="#help">İstifadəyə başlayın</a><a href="#faq">Tez-tez verilən suallar</a><a href="#contact">Əlaqə məlumatları</a></div>
 <article id="about"><h2>Haqqımızda</h2><p>A-USTA avtomobil elanlarını, ehtiyat hissələrini, servis və nəqliyyat xidmətlərini bir araya gətirən platformadır. Məqsədimiz avtomobillə bağlı ehtiyaclarınızı ayrı-ayrı ünvanlarda axtarmaq əvəzinə bir yerdən idarə etməyinizi asanlaşdırmaqdır.</p><p>Video elanlara baxa, kateqoriya və marka üzrə axtarış edə, şəxsi kabinetinizdə elanlarınızı, avtomobillərinizi və hər avtomobilin ayrıca servis tarixçəsini idarə edə bilərsiniz.</p><p>A-USTA-da yerləşdirilmiş elan və istifadəçi tərəfindən daxil edilmiş servis qeydi özlüyündə avtomobilin texniki vəziyyətinə zəmanət deyil. Alış və ya xidmət qərarından əvvəl məlumatları qarşı tərəflə dəqiqləşdirin.</p></article>
 <article id="contact"><h2>Əlaqə</h2><p>A-USTA ilə əlaqə üçün rəsmi əlaqə kanalları bu bölmədə təqdim ediləcək. Hazırda təsdiqlənmiş dəstək telefonu, elektron poçt və müraciət ünvanı yayımlanmır.</p><p>Texniki məsələ ilə qarşılaşmısınızsa, <a href="#technical-support">problemi qeyd etmək üçün təlimatdan</a> istifadə edin. Elanla bağlı məsələ üçün <a href="#complaints">şikayət və müraciət məlumatlarını</a> hazırlayın.</p><p class="notice">Əlaqə məlumatları platforma sahibi tərəfindən təsdiqlənməlidir. Bu səhifədə telefon və ya e-poçt uydurulmayıb; hazırda burada müraciət göndərmə forması yoxdur.</p></article>
 <article id="services"><h2>Xidmətlərimiz</h2><ul><li><strong>Avtomobil bazarı:</strong> satış və icarə elanları, marka və model üzrə axtarış, elan videoları.</li><li><strong>Usta çağır:</strong> mövcud xidmət seçimindən ehtiyacınıza uyğun kateqoriyanı seçin və həmin xidmətin suallarını cavablandırın.</li><li><strong>Evakuator və yükdaşıma:</strong> mövcud sifariş axınında nəqliyyat və daşıma ehtiyacınızı bildirin. Mövcudluq və şərtləri xidmət göstərən tərəflə dəqiqləşdirin.</li><li><strong>Ehtiyat hissələri və aksessuarlar:</strong> kateqoriya, marka, model və hissə məlumatı üzrə elanlara baxın.</li><li><strong>Şəxsi kabinet:</strong> elanlar, sifarişlər, avtomobillər və avtomobilə aid servis qeydləri.</li></ul><a href="../">Xidmət və elan bölmələrini aç ↗</a></article>
@@ -18,4 +20,4 @@
 <article id="categories"><h2>Avtomobil kateqoriyaları</h2><p>Avtomobillər, icarə, moto/moped, xüsusi texnika, avtobus, su nəqliyyatı, karavan və qoşqu kateqoriyalarını mövcud elan menyusundan seçin. Eyni menyuda hissələr, aksessuarlar, qeydiyyat nişanları və xidmət profilləri də mövcuddur.</p><a href="../#austaV107ListingCategories">Kateqoriyaları aç ↗</a></article>
 <article id="parts"><h2>Ehtiyat hissələri</h2><p>Hissə axtararkən adı, avtomobil markası/modeli və varsa OEM kodunu dəqiqləşdirin. Elanın vəziyyət və qiymət məlumatını yoxlayın; avtomobilə uyğunluğu satıcı ilə təsdiqləyin.</p><a href="../#austaV107ListingCategories">Elan menyusunda Ehtiyat hissələri seçin ↗</a></article>
 <article id="service"><h2>Avtoservislər</h2><p>Avtoservis bölməsində xidmət profilini açaraq ixtisaslaşma, ünvan, xidmət və profil statusu barədə mövcud məlumatlara baxın. Xidmət vaxtını, qiymətini və işin həcmini servis ilə ayrıca dəqiqləşdirin.</p><a href="../#austaV107ListingCategories">Elan menyusunda Avtoservislər seçin ↗</a></article>
-</div></main><footer>A-USTA · Məlumat və yardım · <a href="../">Ana səhifə</a></footer></body></html>
+</div></main><footer>A-USTA · Məlumat və yardım · <a href="../">Ana səhifə</a></footer><script>const sections=document.querySelector('.info-nav');const narrow=matchMedia('(max-width:800px)');function adapt(){sections.open=!narrow.matches}adapt();narrow.addEventListener('change',adapt);</script></body></html>

diff --git a/assets/homepage/mobile-links.js b/assets/homepage/mobile-links.js
@@ -1,10 +1,11 @@
 /* Reviewed destinations only. Store artwork remains gated until publication/permission. */
 window.AUSTA_MOBILE_LINKS=Object.freeze({
  website:'https://a-usta.github.io/A-Usta-webside/',
- universalLink:'', // Future reviewed HTTPS app/universal link; never guessed or auto-activated.
+ universalLink:'',
+ androidAppLink:'', // Future reviewed HTTPS app/universal link; never guessed or auto-activated.
  stores:Object.freeze([
-  Object.freeze({name:'App Store',host:'apps.apple.com',published:false,url:'',badge:'',artworkApproved:false}),
-  Object.freeze({name:'Google Play',host:'play.google.com',published:false,url:'',badge:'',artworkApproved:false}),
-  Object.freeze({name:'AppGallery',host:'appgallery.huawei.com',published:false,url:'',badge:'',artworkApproved:false})
+  Object.freeze({name:'App Store',platform:'iOS üçün',host:'apps.apple.com',published:false,url:'',badge:'',artworkApproved:false}),
+  Object.freeze({name:'Google Play',platform:'Android üçün',host:'play.google.com',published:false,url:'',badge:'',artworkApproved:false}),
+  Object.freeze({name:'AppGallery',platform:'HarmonyOS üçün',host:'appgallery.huawei.com',published:false,url:'',badge:'',artworkApproved:false})
  ])
 });

diff --git a/docs/V341-OWNER-APPROVAL-CHECKLIST.md b/docs/V341-OWNER-APPROVAL-CHECKLIST.md
@@ -1,0 +1,47 @@
+# V3.4.1 owner approval checklist — not release authorization
+
+All fields below are awaiting explicit owner confirmation. Do not infer them from a proposed domain, old placeholders, personal contacts or another marketplace. Public information pages identify pending legal sections; they are not binding terms. No submission form or support SLA is claimed.
+
+## Legal identity
+- [ ] Exact registered operator/company name and legal form, in approved spelling.
+- [ ] Company registration identifier and VÖEN, if owner approves public display.
+- [ ] Registered office and public correspondence address, if different.
+- [ ] Authorized legal/privacy contact and who reviews/approves final document wording.
+- [ ] Effective date, version, jurisdiction/dispute procedure and acceptance mechanism for final terms.
+- [ ] Platform role vs seller/provider responsibilities; moderation, account restrictions and appeal process.
+- [ ] Listing/payment/refund/cancellation terms for any actual paid feature. No unapproved prices or free-period claims.
+
+## Official contacts and support
+- [ ] Verified public support email, phone and/or contact form destination.
+- [ ] Advertising/business contact, if separate.
+- [ ] Service hours and supported languages; publish response-time promises only if approved.
+- [ ] Complaint intake channel, handling/appeal process and evidence requirements.
+- [ ] Who receives each channel and how access/security are maintained. Do not publish private personal details by default.
+
+## Advertising
+- [ ] Available placements, formats/dimensions, scheduling and rotation terms.
+- [ ] Rate card, taxes, payment/invoicing, cancellation/refund rules and reporting scope.
+- [ ] Content review/rights rules, prohibited content and sponsorship labels.
+- [ ] Whether impression/click figures are measured and what may be promised. No guaranteed reach is invented.
+
+## Privacy policy
+- [ ] Controller identity and verified privacy-request channel.
+- [ ] Actual data categories/purposes: Auth/profile, public listings/media, private vehicles/history/documents, orders/assignments and technical logs.
+- [ ] Applicable legal bases, sharing/processor list, hosting/transfer details confirmed against actual configuration.
+- [ ] Retention/deletion schedule per data category and backup deletion limits.
+- [ ] Account deletion, correction/access and complaint-request procedures; identity validation for requests.
+- [ ] Actual cookies/localStorage/analytics/marketing use and consent choices where applicable.
+- [ ] Access controls for private files, authorized service confirmations, and limits on revoking already downloaded copies/caches.
+- [ ] Age restrictions, sensitive data and incident handling, reviewed by the owner/legal adviser; no unsupported regulatory compliance claims.
+
+## Mobile application badges and future routing
+- [ ] Published app IDs or verified pre-order/pre-registration listing URLs for each store; none are currently supplied.
+- [ ] Program entitlement and permission for current official artwork, asset source/language and any required attribution.
+- [ ] Review authentic artwork without modification; neutral original device cards are fallback visuals, not official store badges.
+- [ ] Set published + artworkApproved + approved local badge + verified HTTPS store URL only after review. Current state remains inactive/upcoming.
+- [ ] Universal Link / Android App Link domain ownership, association files, app identifiers and verification evidence before activation. Current configuration slots remain blank; no automatic routing is claimed.
+
+## Release review
+- [ ] Owner accepts 1536/1366/900/390 native Chromium screenshots and Account preservation proof.
+- [ ] CI/regression checks pass; TEST data verification is complete or explicitly accepted as deferred.
+- [ ] Legal/contact publication gates resolved. Draft PR #287 is not merge/deployment authorization.
